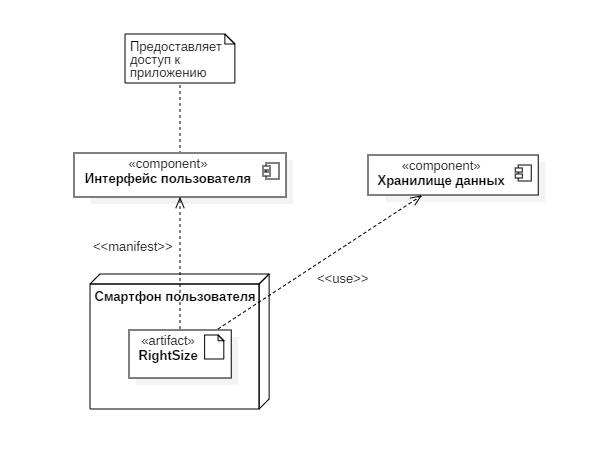
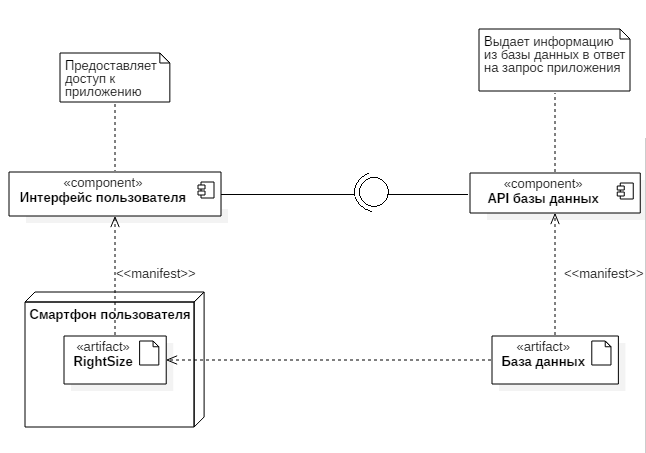
Class diagram was added

diff --git a/docs/System_design.md b/docs/System_design.md
@@ -1,7 +1,7 @@
 # System design (UML)
 
 
-1. [Диаграмма использования](#1)<br>
+1. [Диаграмма вариантов использования](#1)<br>
 	1.1 [Описание актеров](#1.1)<br>
 2. [Варианты использования](#2)<br>
  	2.1. [Выбор пола](#2.1)<br>
@@ -40,10 +40,13 @@
 &nbsp;&nbsp;&nbsp;&nbsp; &nbsp;2.3.1. [Поток событий](#2.3.1)<br>
 &nbsp;&nbsp;&nbsp;&nbsp; &nbsp;2.3.2. [Диаграмма активности](#2.3.2)<br>
 3. [Диаграмма последовательности](#3)<br>
+4. [Диаграмма состояний](#4)<br>
+5. [Диаграмма классов](#5)<br>
+6. [Диаграмма развертывания](#6)<br>
 
 
 
-## 1\. Диаграмма использования <a name = "1"></a>
+## 1\. Диаграмма вариантов использования <a name = "1"></a>
 ![use_case_diagram](diagrams/use_case_diagram/use_case_diagram.PNG)
 ### 1.1\. Описание актеров <a name = "2.1"></a>
 <b> Актер: </b> Пользователь .<br>
@@ -162,3 +165,13 @@
 
 ## 3\. Диаграмма последовательности <a name = "1"></a>
 ![sequence_diagram](diagrams/sequence_diagram/sequence_diagram.PNG)
+
+## 4\. Диаграмма состояний <a name = "1"></a>
+![state_mashine_diagram](diagrams/state_mashine_diagram/state_mashine_diagram.png)
+
+## 5\. Диаграмма классов <a name = "1"></a>
+![class_diagram](diagrams/class_mashine_diagram/class_diagram.PNG)
+
+
+## 6\. Диаграмма развертывания <a name = "1"></a>
+![deployment_diagram](diagrams/deployment_diagram/deployment_diagram.PNG)
